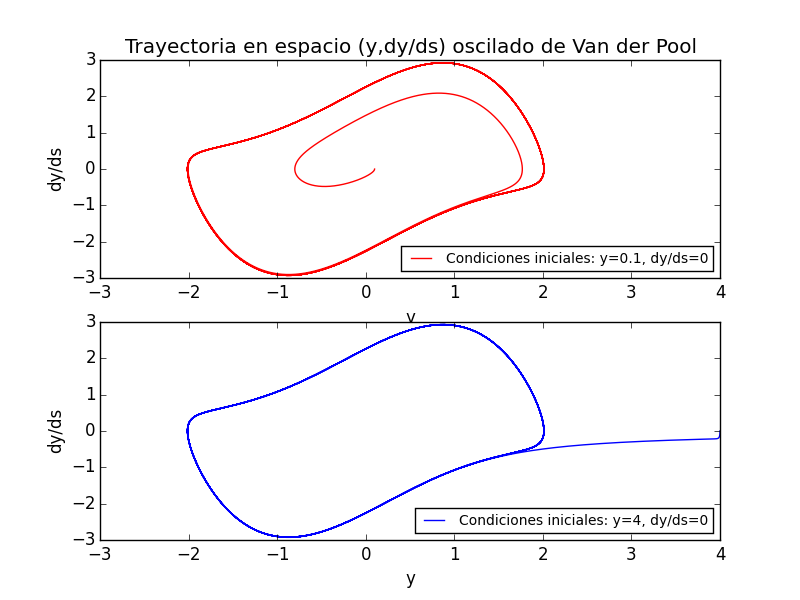
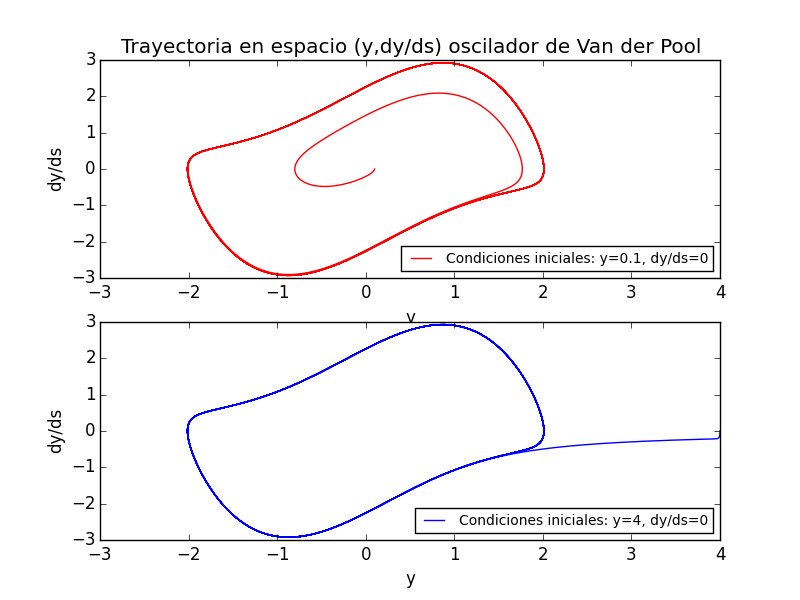
se cambia titulo figura 1.1

Changed region(s): [[0.1562, 0.06, 0.875, 0.09]]

diff --git a/tareap1.py b/tareap1.py
@@ -47,7 +47,7 @@ ax1 = fig.add_subplot(211)
 ax1.set_xlabel('y')
 ax1.set_ylabel('dy/ds')
 ax1.set_xlim(-3,4)
-plt.title("Trayectoria en espacio (y,dy/ds) oscilado de Van der Pool")
+plt.title("Trayectoria en espacio (y,dy/ds) oscilador de Van der Pool")
 
 #primeras condiciones iniciales
 x1[0]= 0.1
